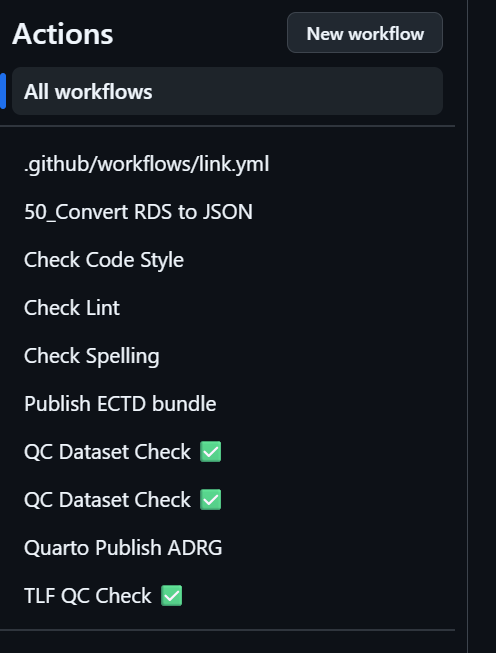
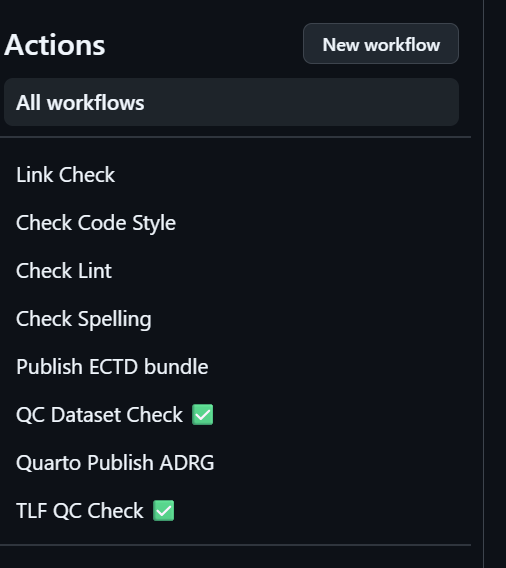
deploy: 4bce8058d4b4b44f31b4648d3fbc2e39e560c104

diff --git a/git-collab-pres.html b/git-collab-pres.html
@@ -381,10 +381,26 @@ Eli Miller, Ben Straub, Eric Nantz
 <p>Manually generated ADRG from pilot 3</p>
 <p><img data-src="images/humanADRG.png"></p>
 </div><div class="column" style="width:50%;">
-<p>LLM generated ADRG in pilot 5</p>
+<p>🤖LLM generated ADRG in pilot 5</p>
 <p><img data-src="images/LLMADRG.png"></p>
+<p><img data-src="images/ellmerPackage.png" height="200"></p>
 </div></div>
 
+<aside class="notes">
+<p>One of the ways we utilized LLM in pilot 5.</p>
+<p>Please review the following R code and identify the variables used, along with the corresponding datasets they belong to. …”</p>
+<p>“Please review the following R code and identify the filtering criteria applied…”</p>
+<style type="text/css">
+        span.MJX_Assistive_MathML {
+          position:absolute!important;
+          clip: rect(1px, 1px, 1px, 1px);
+          padding: 1px 0 0 0!important;
+          border: 0!important;
+          height: 1px!important;
+          width: 1px!important;
+          overflow: hidden!important;
+          display:block!important;
+      }</style></aside>
 <aside><div>
 <ul>
 <li>Courtesy of <a href="mailto:leng.ning@gene.com">Ning Leng</a> ✨</li>
@@ -406,6 +422,19 @@ Eli Miller, Ben Straub, Eric Nantz
 <p><img data-src="images/packageDescs.png"></p>
 </div></div>
 
+<aside class="notes">
+<p>Here Ning used the <code>btw</code> package which wraps around the ellmer package and can inject your R environment and objects so an LLM can understand them. R objects, packages, functions, and documentation can be fed in to describe what your code in R is actually doing. On the right you see…</p>
+<style type="text/css">
+        span.MJX_Assistive_MathML {
+          position:absolute!important;
+          clip: rect(1px, 1px, 1px, 1px);
+          padding: 1px 0 0 0!important;
+          border: 0!important;
+          height: 1px!important;
+          width: 1px!important;
+          overflow: hidden!important;
+          display:block!important;
+      }</style></aside>
 <aside><div>
 <ul>
 <li>Thanks Ning!</li>
@@ -432,8 +461,12 @@ Eli Miller, Ben Straub, Eric Nantz
 
 <aside class="notes">
 <p>In the past years I’ve seen a lot of different ways of using Git. Found a few main benifits from a well crafted gitflow.</p>
-<p>Max Dev work.</p>
-<p>Build from the ground up. Don’t implement because you see it on this slide, or saw someone else do it</p>
+<p>Max Dev work. Biggest tripping point I see. Make sure all parts of the gitflow are needed and not just in place because you see others do it. Devleopers should not need to shepard their code through the gitflow process, they should only need to focus on developing and testing.</p>
+<p>Max Code quality. test driven development can help. Make sure tests are run, all value-add quality checks are there. and codeowners are doing meaningful reviews</p>
+<p>Max Code Velocity. Make sure all steps are needed and everyone knows who is reviewing, reviewing for what, and why they’re reviewing. Tests are running quickly, code is deployed quickly. And releases and tags are made available</p>
+<p>Build from the ground up with a focus on quality, development, and users. Don’t implement because you see it on this slide, or saw someone else do it</p>
+<p>On the left I have an example of an easy gitflow. Even this one could be overengineered.</p>
+<p>To start your development efforts are in their own seperate feature branches, which are then merged into a staging environment. I see a lot of QA work being done in staging environments before it gets pushed into production. Once approaved in stage, it can have a final round of checks done, pushed to the main branch, deployed to production, and tagged.</p>
 <style type="text/css">
         span.MJX_Assistive_MathML {
           position:absolute!important;
@@ -455,7 +488,7 @@ Eli Miller, Ben Straub, Eric Nantz
 <p>Code moving between branches or a transision of “state.” A structured way for reviewing code</p>
 
 <img data-src="images/PRScreenshot.png" class="quarto-figure quarto-figure-center r-stretch"><aside class="notes">
-<p>Eli’s notes</p>
+<p>Here is an example of a pull request in pilot 5 and you can see a few different things in the pull request process. You can see Ben commenting the team and individual contriutors, Checks successfully passing, and some automation in the GitHub project to help us prioritize work</p>
 <style type="text/css">
         span.MJX_Assistive_MathML {
           position:absolute!important;
@@ -484,7 +517,7 @@ Eli Miller, Ben Straub, Eric Nantz
 </ul>
 </div></div>
 <aside class="notes">
-<p>Eli’s notes</p>
+<p>Diving in deeper, here are some examples of some workflows that we run. A lot of these are taken from r-lib, pharmaverse, and other contrubutors. We check for code style, code linting(which is different somehow), a spell check, testing, test coverage, and an R CMD check. Before any code gets into the main branch it has to pass these tests. When doing development you get very clear and actionalbe feedback on what to do.</p>
 <style type="text/css">
         span.MJX_Assistive_MathML {
           position:absolute!important;
@@ -521,7 +554,8 @@ Eli Miller, Ben Straub, Eric Nantz
 <p><img data-src="images/BotComment.png"></p>
 </div></div>
 <aside class="notes">
-<p>Eli’s notes</p>
+<p>Above we had some of the QC checks for pilot 5. One of the issues we had with some of the pilots were … And we thought to lean on some LLM to do the QC checking. Like Ning’s example above, this uses the ellmer package to give us a stucutred result that could give us a list of differneces to comment to the users, a boolean result on whether or not the TLFs are the same, and a score noting how different they are.</p>
+<p>This is sent to an LLM which evaluates the two images, describes the differences, determines if these differences are material, then a comment is added to note all of these.</p>
 <style type="text/css">
         span.MJX_Assistive_MathML {
           position:absolute!important;
@@ -539,7 +573,7 @@ Eli Miller, Ben Straub, Eric Nantz
 <p>Code being deployed out to the world</p>
 
 <img data-src="images/deployment.png" class="r-stretch"><aside class="notes">
-<p>Eli’s notes</p>
+<p>Finally, once code is pushed into a staging or main branch, the code should be ready to go. Part of a good workflow should be to automatically push your approved code to a deployment environment. Doing this manually can be error prone and can work. In this example you can see some documentation of this presentation being deployed! You can see the most active version, who deployed it, and when.</p>
 <style type="text/css">
         span.MJX_Assistive_MathML {
           position:absolute!important;
